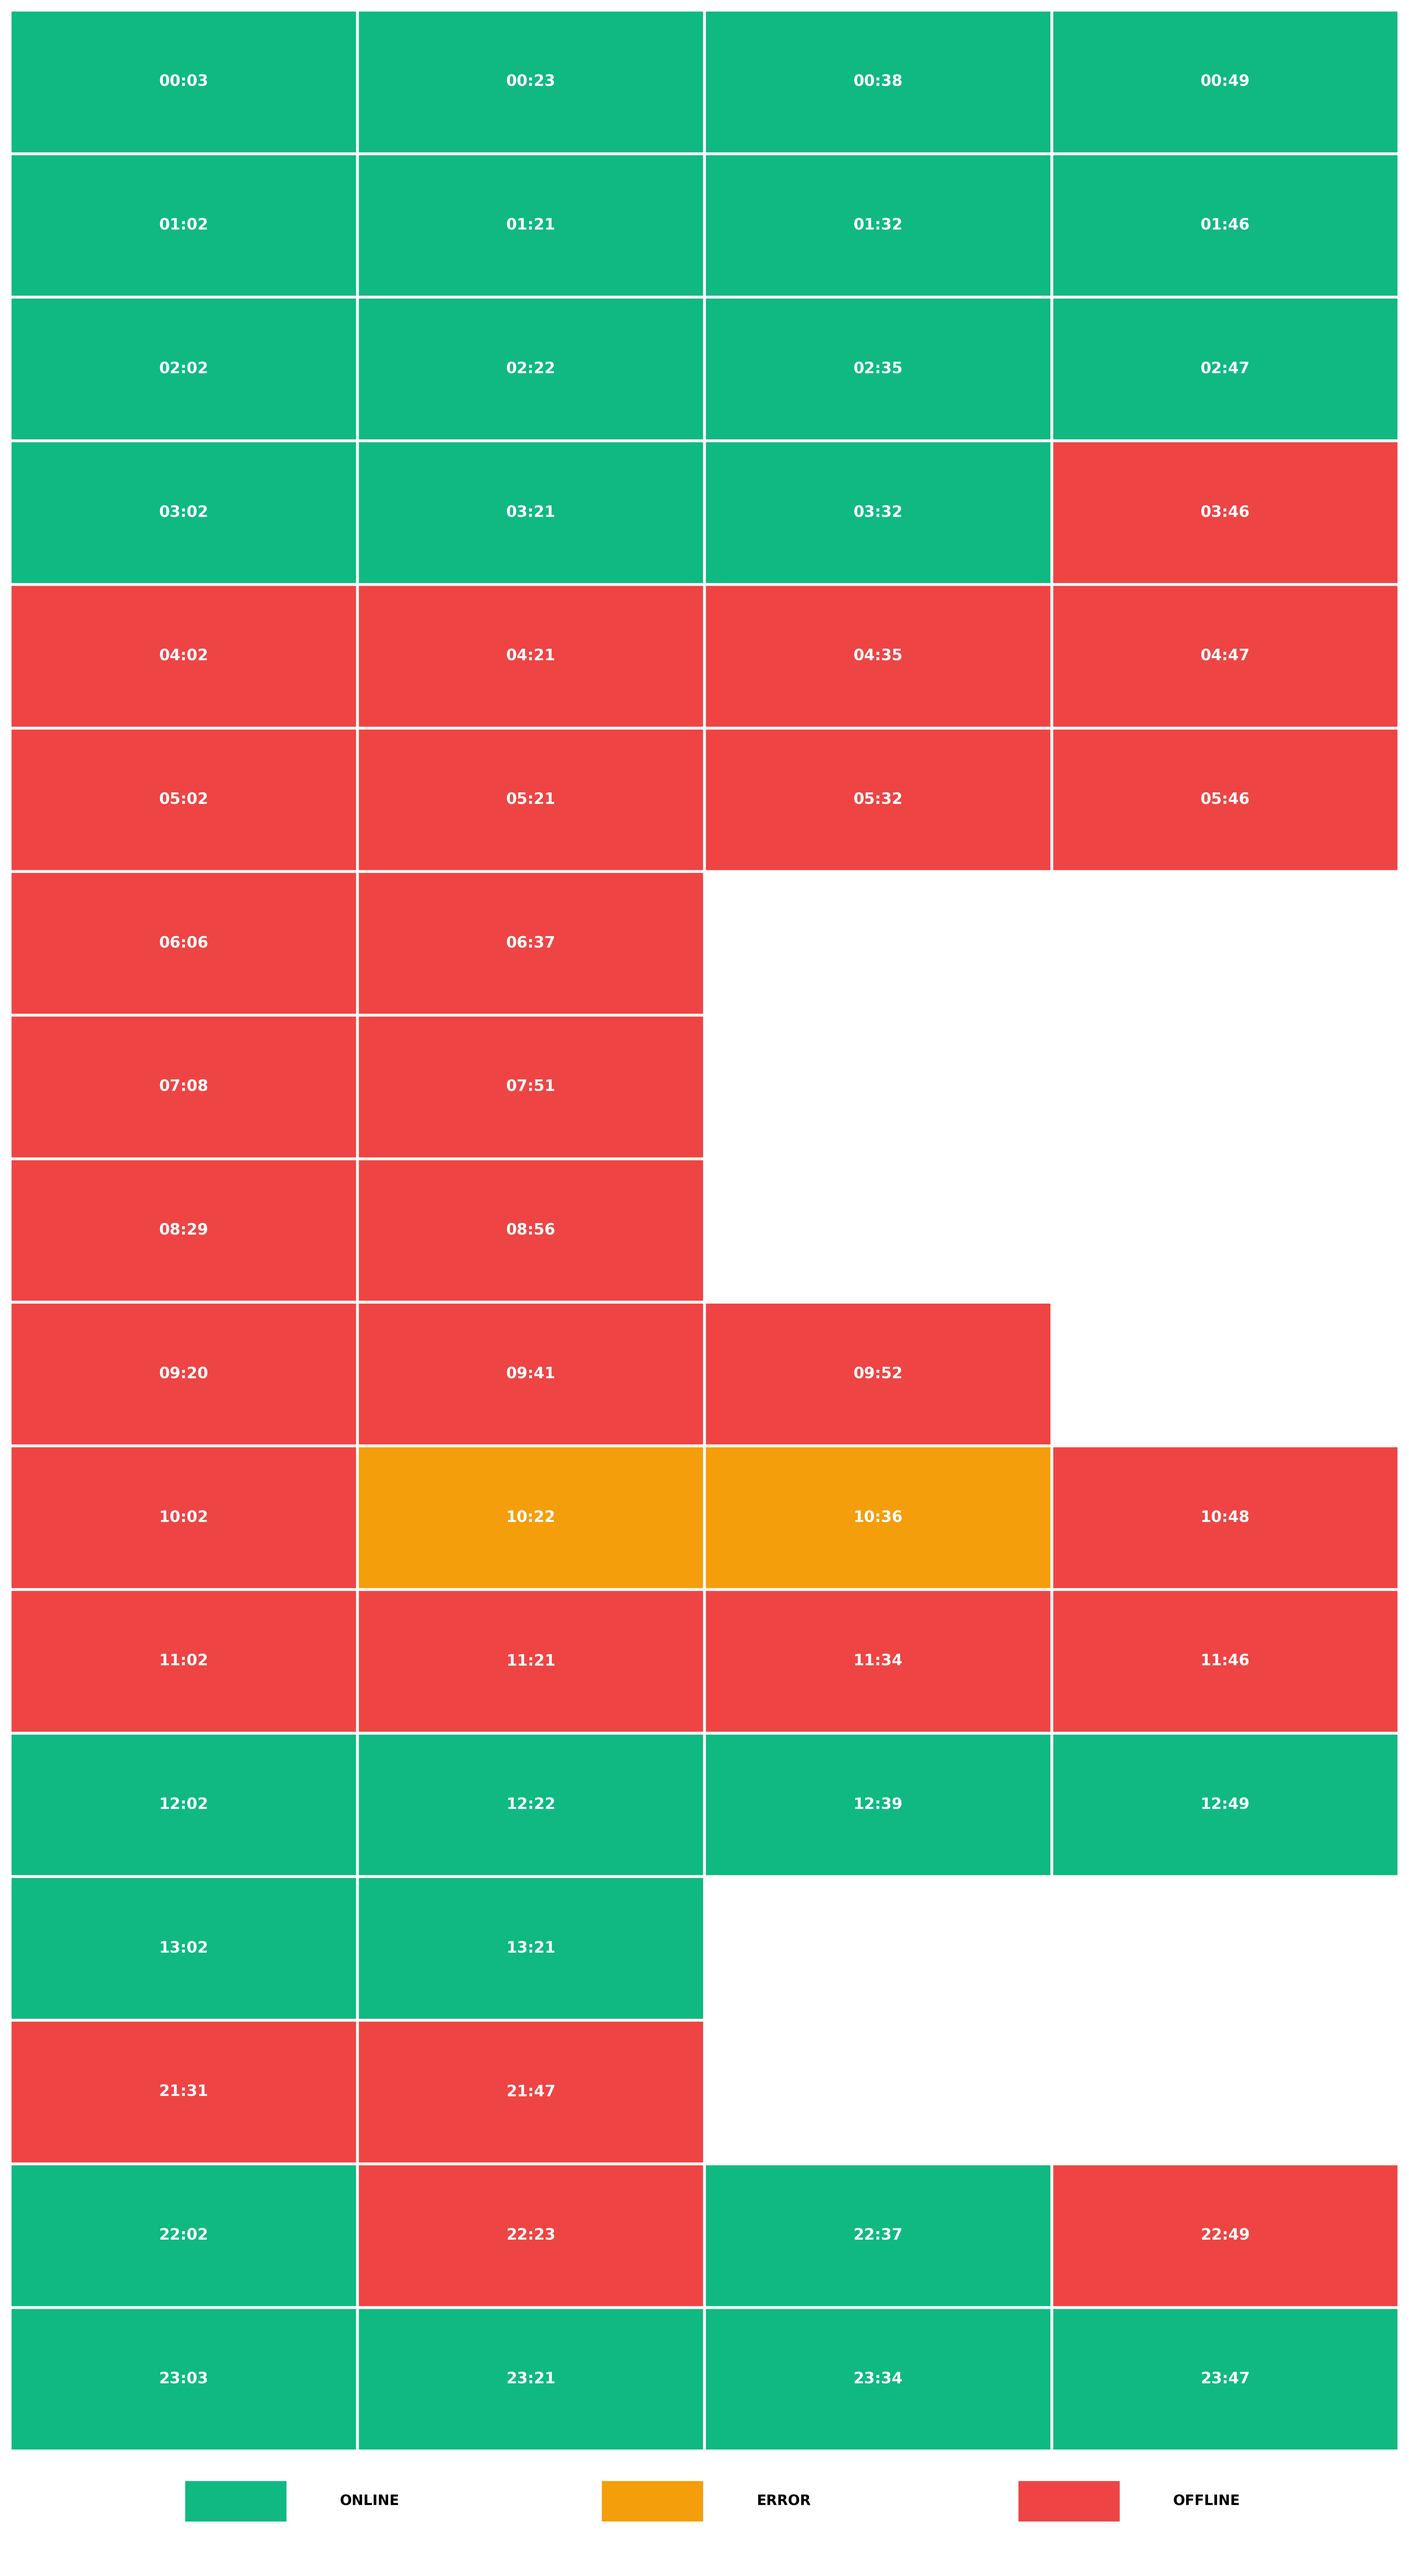
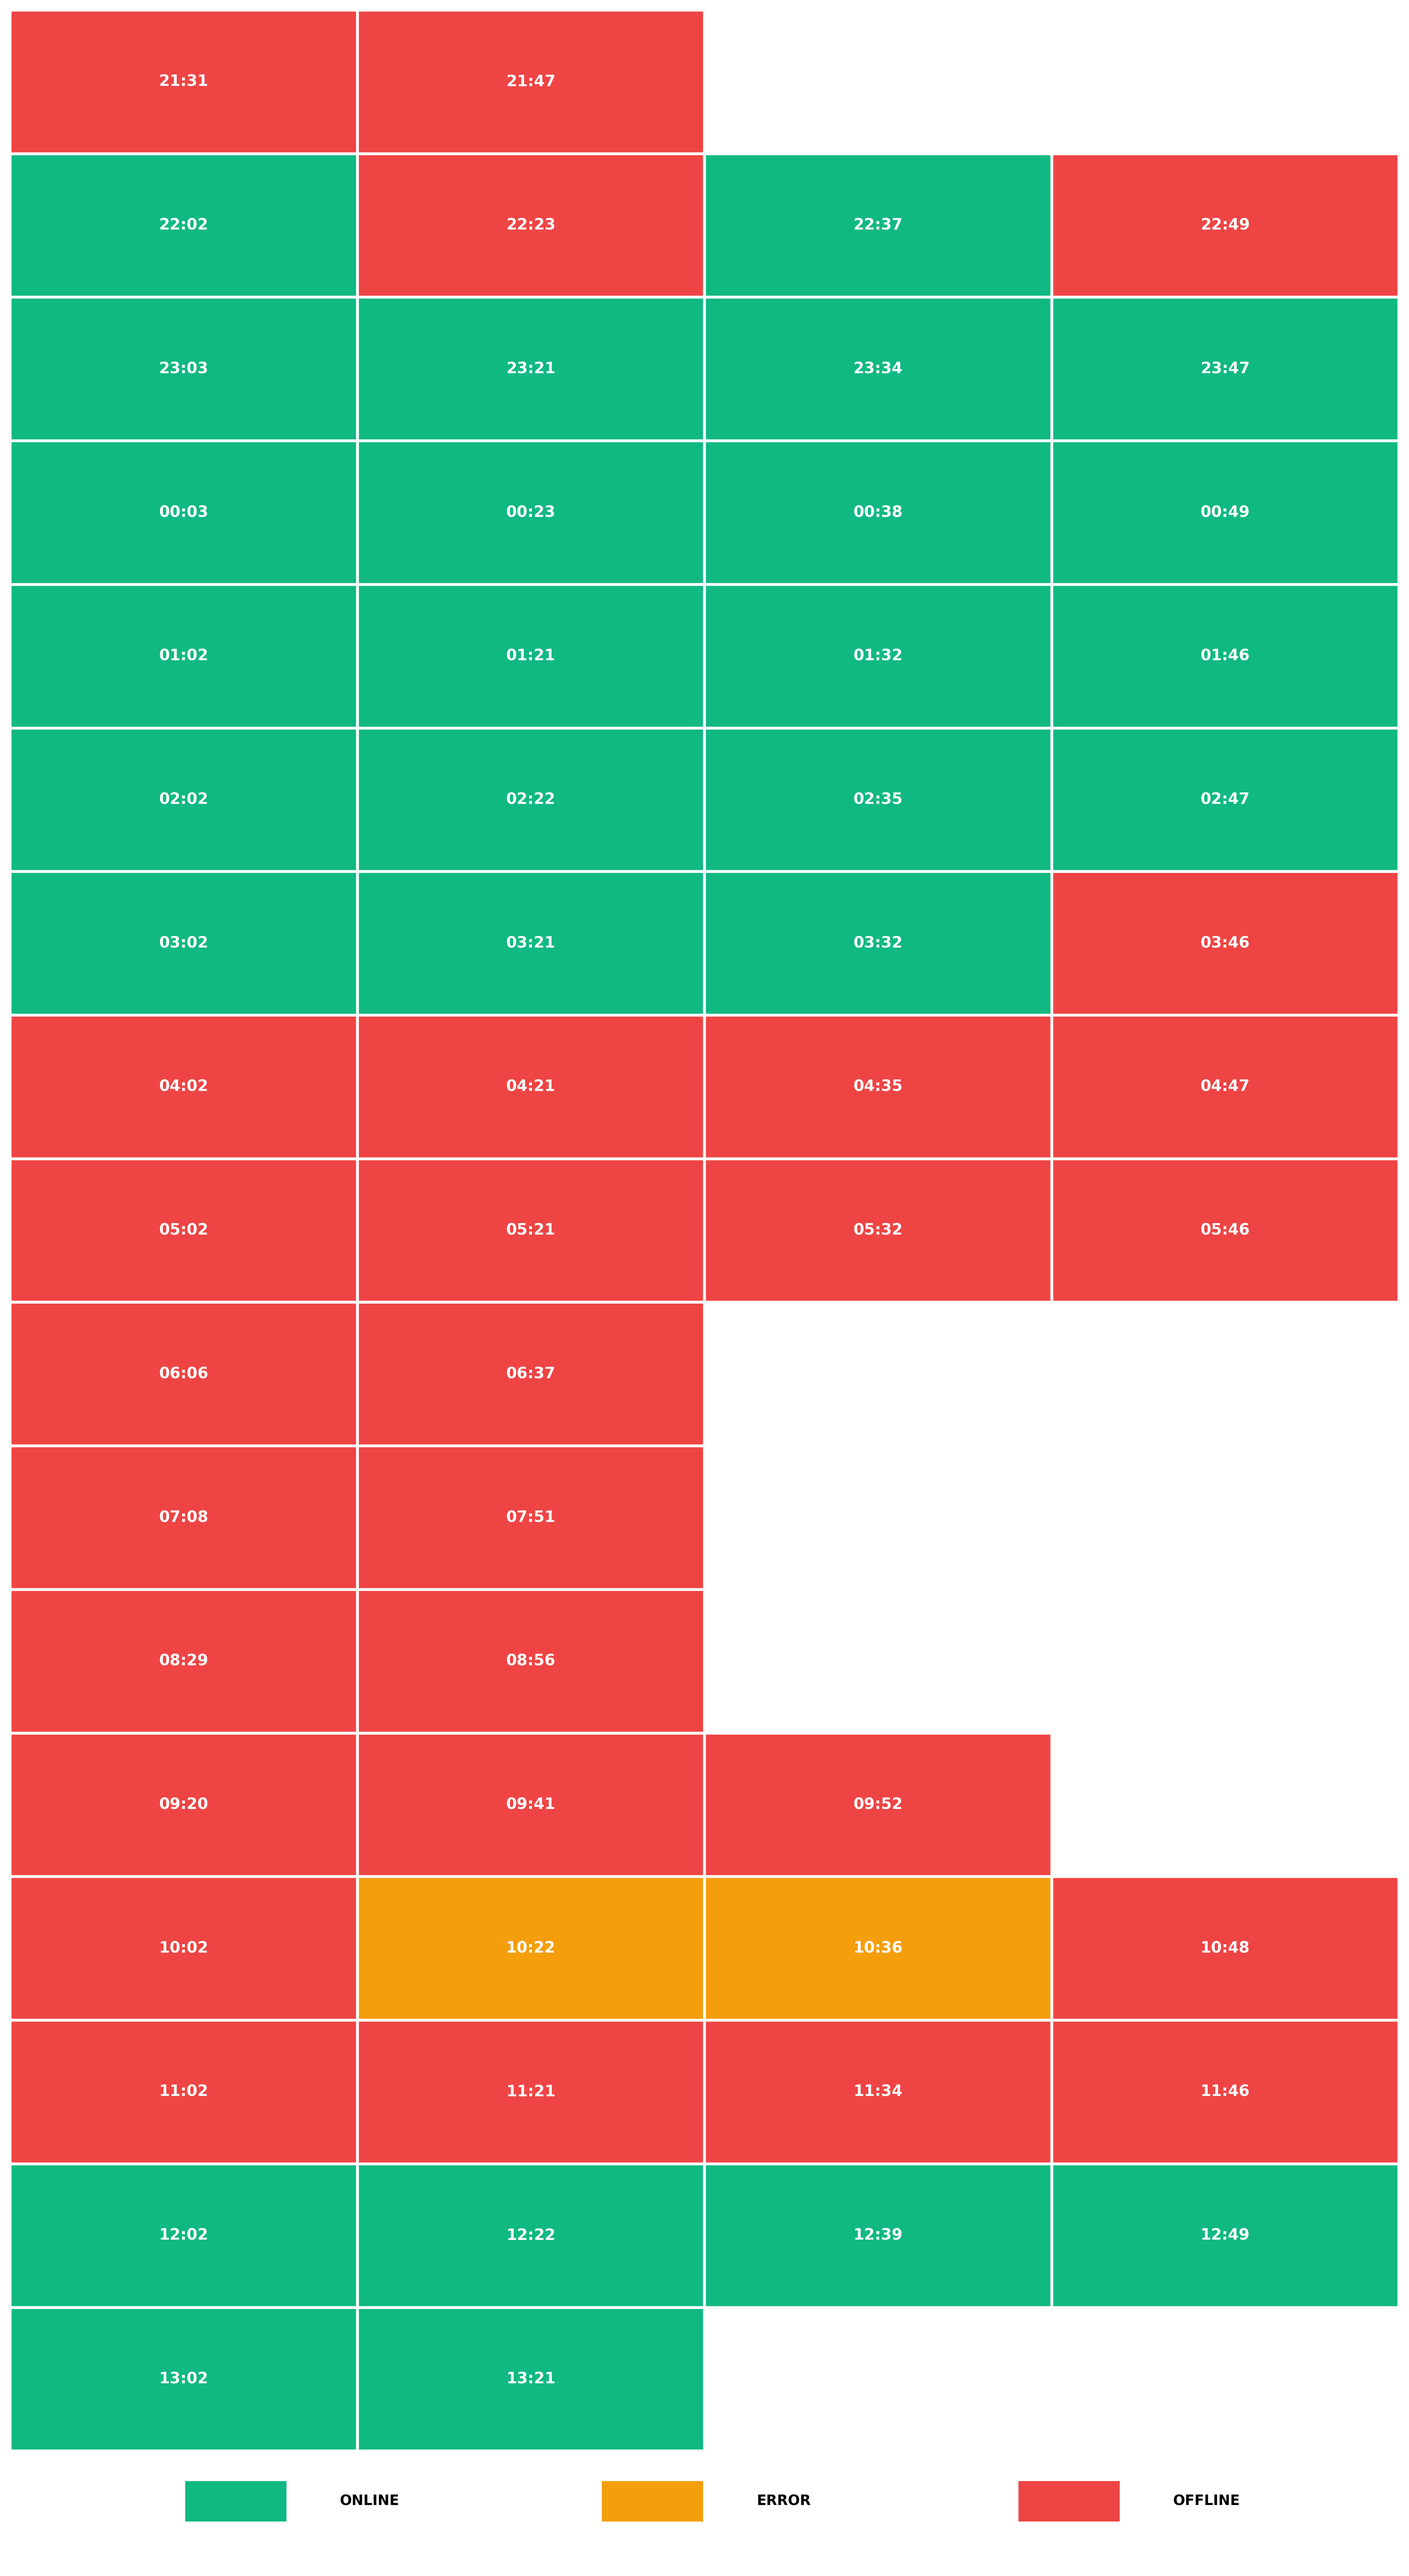
disorting by hour

diff --git a/visualize.py b/visualize.py
@@ -21,7 +21,7 @@ color_map = {"ONLINE": "#10B981", "ERROR": "#F59E0B", "OFFLINE": "#EF4444"}
 # Group data by hour
 hourly_data = {}
 for ts, status in zip(timestamps, statuses):
-    hour_key = ts.strftime('%H:00')
+    hour_key = ts.strftime('%Y-%m-%d %H:00')  # Include date to avoid mixing different days
     if hour_key not in hourly_data:
         hourly_data[hour_key] = []
     hourly_data[hour_key].append((ts, status))
